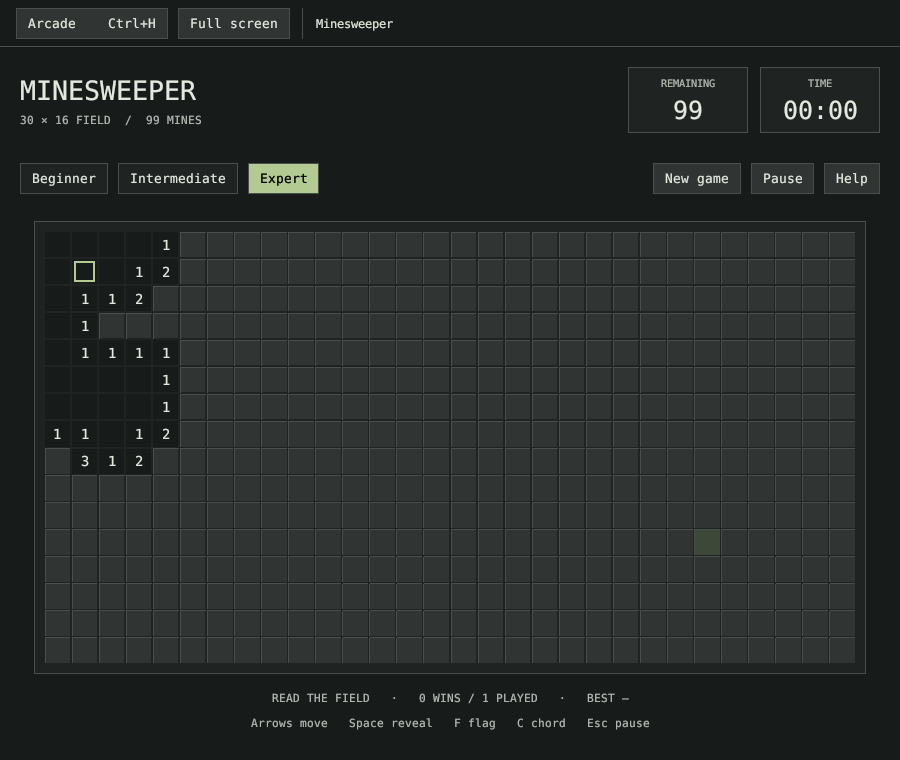
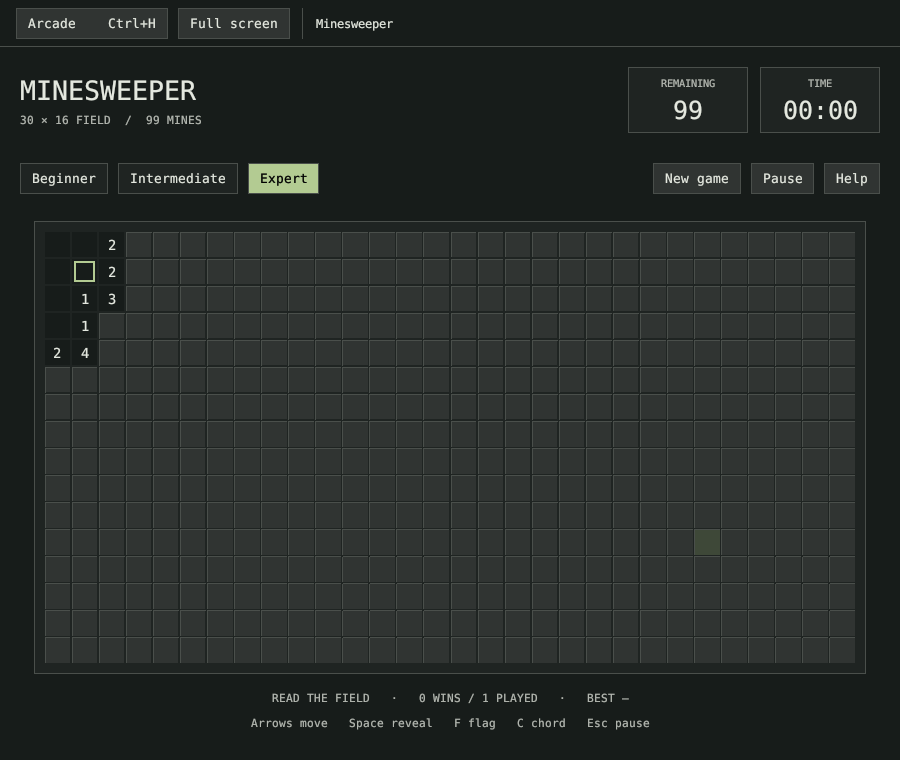
Fix thirteen-game mouse coverage and restore review captures

Changed region(s): [[0.0311, 0.3026, 0.2178, 0.6355]]

diff --git a/scripts/native-mouse.py b/scripts/native-mouse.py
@@ -52,7 +52,7 @@ with tempfile.TemporaryDirectory(prefix='arcade-mouse-') as tmp:
         rail_w = min(350, max(240, (w-48-pad*2)*.32))
         bottom = h - 32 - 46
         top = 144
-        games = ['Circuit Pinball','Solitaire','Scram','Invaders','Chess','Stack','Snake','Bubble','Blast','2048','Shatter','Tanks']
+        games = ['Circuit Pinball','Solitaire','Scram','Invaders','Chess','Stack','Snake','Bubble','Blast','2048','Shatter','Tanks','Minesweeper']
         def select(index):
             mouse(right-rail_w/2, top+(index+.5)*(bottom-top)/len(games))
         def play(name):
@@ -62,7 +62,7 @@ with tempfile.TemporaryDirectory(prefix='arcade-mouse-') as tmp:
             mouse(75, 25)
             ready('Omarchy Arcade')
         shot('shelf')
-        # All eleven entries can be selected, launched and left without a key.
+        # All thirteen entries can be selected, launched and left without a key.
         for index,name in enumerate(games):
             select(index); play(name)
             if index == 0:
@@ -106,7 +106,7 @@ with tempfile.TemporaryDirectory(prefix='arcade-mouse-') as tmp:
         play('Invaders'); key(ord('p')); key(0xff51,hold=.5); home()
         later=json.loads((state/'omarchy-invaders/session.json').read_text())
         assert later['game']['ship'] < data['game']['ship']-50
-        print('PASS: eleven mouse launches/returns, Pinball confirm/cancel, Invaders mouse and keyboard handoff')
+        print('PASS: thirteen mouse launches/returns, Pinball confirm/cancel, Invaders mouse and keyboard handoff')
         key(ord('q'),True); app.wait(timeout=10)
         assert app.returncode == 0
     except Exception:

diff --git a/games/minesweeper/VERIFICATION.md b/games/minesweeper/VERIFICATION.md
@@ -44,3 +44,9 @@ The refreshed `verification.sha256` identifies this pass. Earlier checks above a
 Display dependencies were extracted locally for this pass; Xvfb and the app ran in the same process environment over loopback. This resolves the earlier local Xvfb limitation, not the outstanding Arch package or real Omarchy/Wayland acceptance. No whole-workspace test rerun is claimed for this appearance-only pass.
 
 Upstream font contract inspected: omacom/omarchy quattro `bin/omarchy-font-current` blob 839bd4db7b629db34c30988992fe0da0b12925a7 and `bin/omarchy-font-set` blob 080f055b7121d6f66631639318541dbd0d7df33e; fontconfig is canonical.
+
+## Merge preflight — 2026-09-16
+
+CI run [35138151111](https://github.com/tcballard/omarchy-retro-arcade/actions/runs/35138151111) at `7a0caef` passed the Arch package build, installation, package-content verification, bundled Stockfish protocol check, thirteen-game switching, and reinstall/save-preservation checks. Native workspace tests with required Stockfish, Clippy, build, renders and Minesweeper lifecycle/palette/font checks also passed. The native job then failed because the mouse harness still divided the shelf into twelve entries.
+
+The harness now includes Minesweeper and uses thirteen rows; launch/title assertions remain intact. No application runtime code changed. Recaptured and decoded all three review PNGs after finding the committed light image was empty; the dark/light pair shares a board. Repeated the native Minesweeper lifecycle check successfully under local Xvfb. Final CI status is recorded in the PR description. Live Omarchy/Hyprland acceptance remains a release follow-up.
